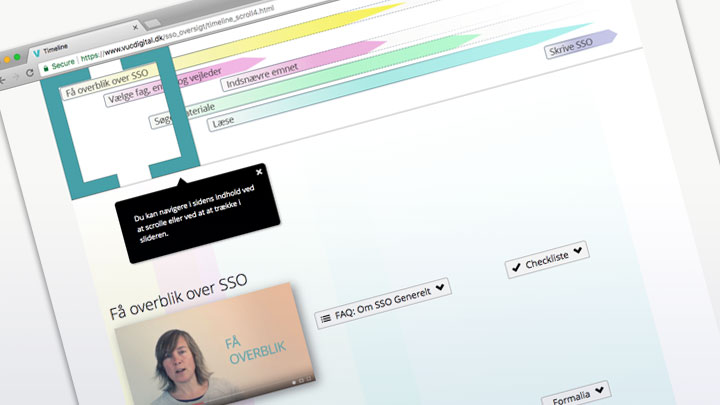
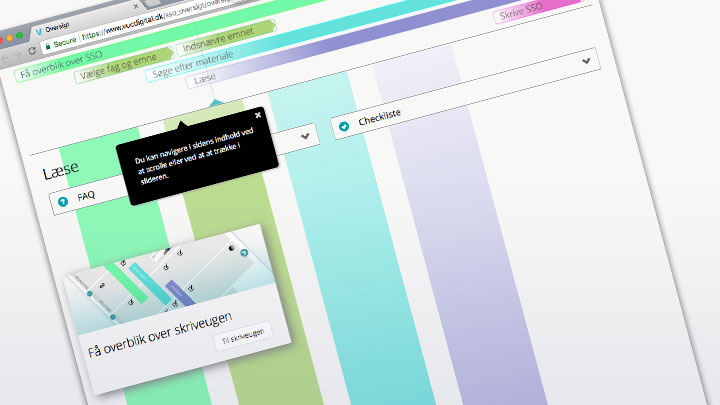
Billeder og links tilføjet

diff --git a/index.html b/index.html
@@ -130,6 +130,26 @@
                             </div>
                         </div>
                         <div class="btn_container">
+                            <a target="_blank" href="../sso_faq/faq_4.html" class="btn btn-default btn-lg" role="button">
+                                FAQ: Sprog
+                            </a>
+                            <div class="indlejring_container">
+                                <a class="MetaDataLink" target="_blank" href="pdf/demo_metadata_skabelon.pdf">Til læreren</a>
+                                <br>
+                                <a class="btn btn-info btn-xs embedlink" onclick="embedlink($(this))">Indlejring</a>
+                            </div>
+                        </div>
+                        <div class="btn_container">
+                            <a target="_blank" href="../sso_faq/faq_2.html" class="btn btn-default btn-lg" role="button">
+                                FAQ: Emne / materialesøgning
+                            </a>
+                            <div class="indlejring_container">
+                                <a class="MetaDataLink" target="_blank" href="pdf/demo_metadata_skabelon.pdf">Til læreren</a>
+                                <br>
+                                <a class="btn btn-info btn-xs embedlink" onclick="embedlink($(this))">Indlejring</a>
+                            </div>
+                        </div>
+                        <div class="btn_container">
                             <a target="_blank" href="../sso_faq/faq_3.html" class="btn btn-default btn-lg" role="button">
                                 FAQ: SSO skriveugen
                             </a>
